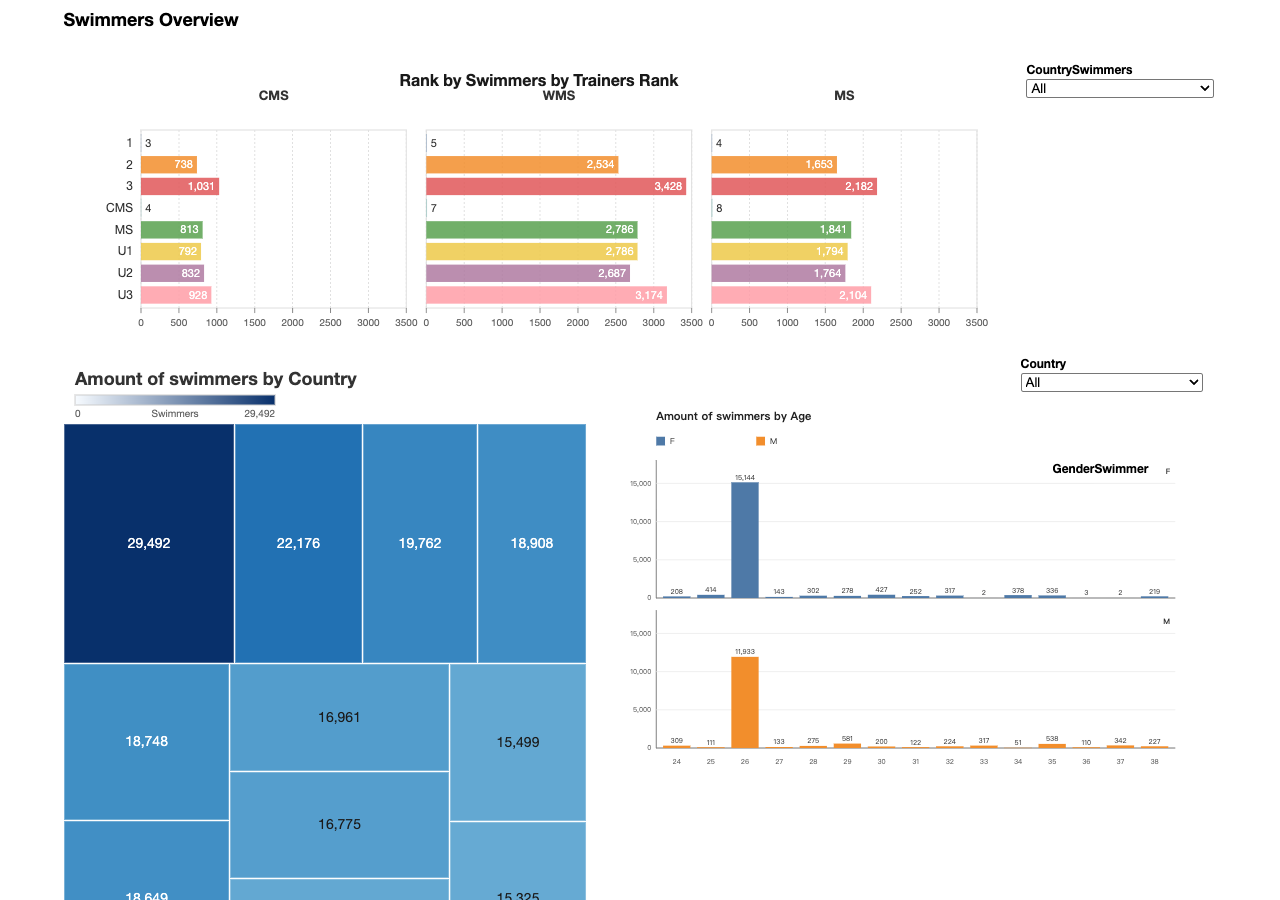
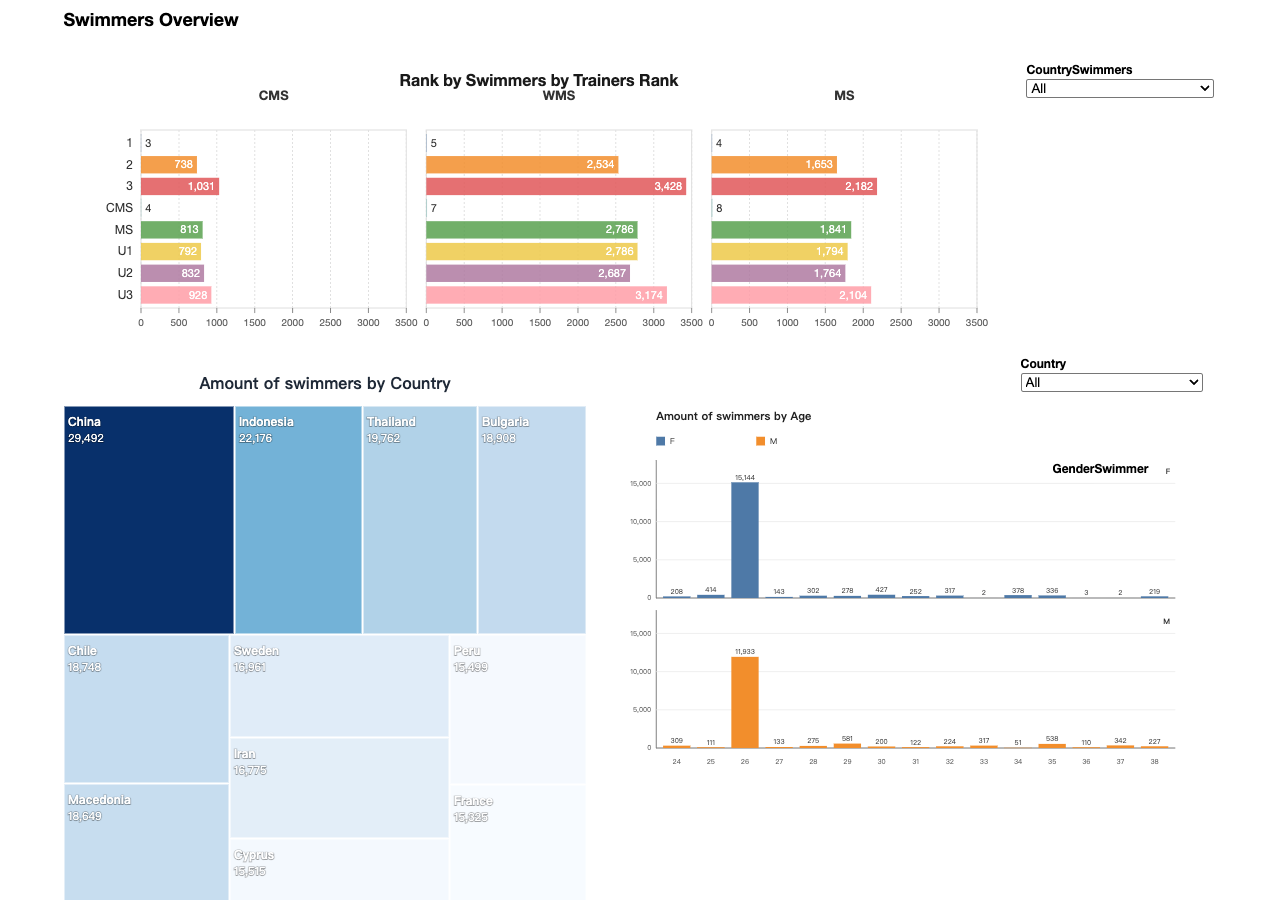
Fix treemap labels: category names + values (was values only)

Changed region(s): [[0.0312, 0.4044, 0.4688, 1.0], [0.0938, 0.5911, 0.125, 0.6222]]

diff --git a/agent_pipeline_v2/viewgen/prompts.py b/agent_pipeline_v2/viewgen/prompts.py
@@ -26,7 +26,7 @@ MARK_GUIDANCE = {
     "line": "用 SVG <path> 画线（d3 line + scaleLinear/scalePoint）。",
     "circle": "用 SVG <circle> 画散点（d3 scaleLinear）。",
     "pie": "用 SVG <path> 画扇形（d3 pie + arc）。",
-    "treemap": "用嵌套矩形（d3 treemap 或直接按面积比例布局）。",
+    "treemap": "用嵌套矩形（d3 treemap 或直接按面积比例布局）；每个块上用类别名做标签（如国家名），块足够大时再附数值。",
     "square": "用 SVG <rect> 网格/热力色块（颜色深浅编码数值）。",
     "text": "渲染大号 KPI 数字/文本，不需要坐标轴。",
     "area": "用 SVG <path> 画面积（d3 area）。",
@@ -69,7 +69,7 @@ def _visual_block(spec: Dict[str, Any]) -> str:
         colors = ", ".join(visual["explicit_colors"])
         lines.append(f"- 颜色：必须使用显式颜色 {colors} 作为主色。")
     if visual.get("show_labels"):
-        lines.append("- 数据标签：每个图形元素上显示其数值（如 15,144 这种千分位格式）。")
+        lines.append("- 数据标签：每个图形元素上标注其类别名和数值（数值用千分位格式，如 15,144）。")
     for at in visual.get("axis_titles", []):
         scope = "x 轴" if at.get("scope") == "cols" else "y 轴" if at.get("scope") == "rows" else "轴"
         lines.append(f"- {scope}标题：{at['title']}")
